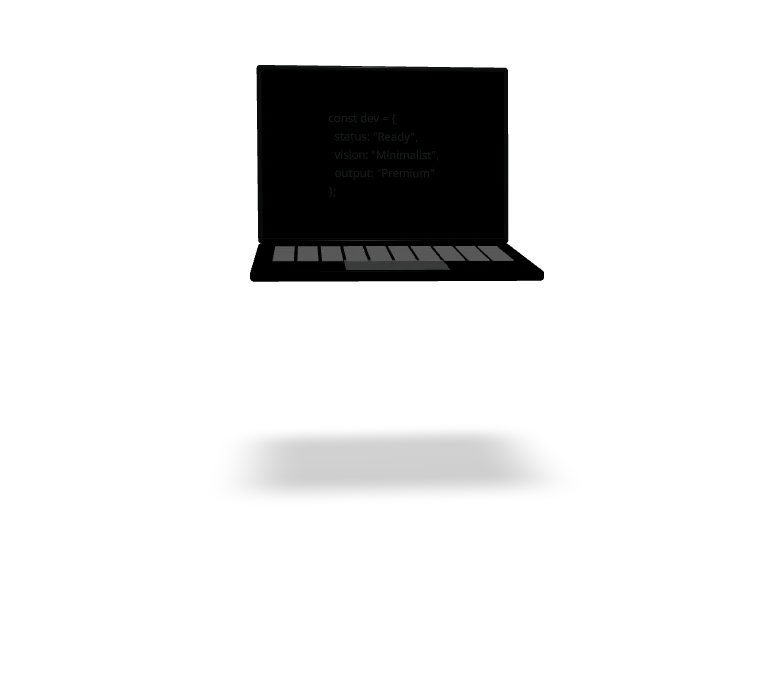
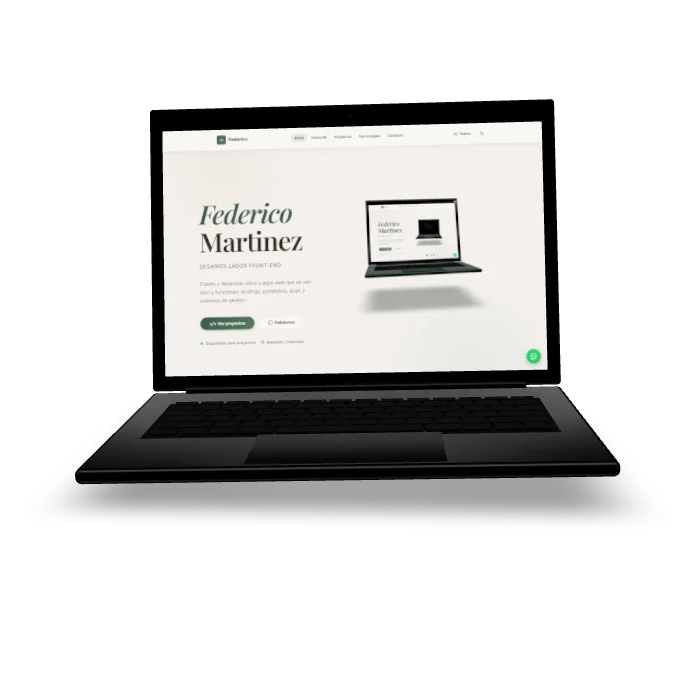
Portátil 3D más detallado con el propio portafolio en la pantalla
- Teclado completo (82 teclas en una sola malla instanciada: un draw call),
  hueco del teclado, trackpad, bisagra, borde de vidrio negro y cámara
- Aluminio con reflejos de estudio hechos en la GPU (Lightformers, sin HDR que bajar)
- La pantalla muestra la primera vista del portafolio (pantalla.webp, 28 KB) en vez
  del texto en inglés; sale troika/Text: el 3D baja de 289 a 266 KB gzip
- Al pasar el mouse se precargan el 3D y la imagen de la pantalla
- En celular el portátil se ve más grande para leer la pantalla
- Fotos fijas de los 4 colores regeneradas desde el modelo nuevo

Changed region(s): [[0.09, 0.09, 0.9, 0.75]]

diff --git a/src/components/InteractiveMonitor.tsx b/src/components/InteractiveMonitor.tsx
@@ -1,6 +1,6 @@
-import React, { useRef, useState, useEffect } from 'react';
-import { Canvas, useFrame } from '@react-three/fiber';
-import { OrbitControls, PerspectiveCamera, Float, Text, ContactShadows, RoundedBox } from '@react-three/drei';
+import React, { Suspense, useCallback, useEffect, useLayoutEffect, useMemo, useRef, useState } from 'react';
+import { Canvas, useFrame, useThree } from '@react-three/fiber';
+import { OrbitControls, PerspectiveCamera, Float, ContactShadows, RoundedBox, Environment, Lightformer, useTexture } from '@react-three/drei';
 import * as THREE from 'three';
 import { useInView } from 'framer-motion';
 import { laptopColors } from './laptopColors';
@@ -9,8 +9,61 @@ interface LaptopProps {
     color: string;
 }
 
+// Keyboard rows as relative key widths; each row is stretched to the same total width
+const KEY_ROWS = [
+    { depth: 0.11, keys: Array(14).fill(1) },
+    { depth: 0.19, keys: [...Array(13).fill(1), 1.6] },
+    { depth: 0.19, keys: [1.6, ...Array(13).fill(1)] },
+    { depth: 0.19, keys: [1.9, ...Array(11).fill(1), 1.9] },
+    { depth: 0.19, keys: [2.4, ...Array(10).fill(1), 2.4] },
+    { depth: 0.19, keys: [1, 1, 1, 1.3, 5.6, 1.3, 1, 1, 1] },
+];
+const KEYBOARD_WIDTH = 3.3;
+const KEY_GAP = 0.035;
+const KEY_COUNT = KEY_ROWS.reduce((n, r) => n + r.keys.length, 0);
+
+/** Every key in one instanced mesh: a single draw call instead of one per key */
+const Keyboard: React.FC = () => {
+    const ref = useRef<THREE.InstancedMesh>(null);
+
+    useLayoutEffect(() => {
+        const mesh = ref.current;
+        if (!mesh) return;
+        const m = new THREE.Matrix4();
+        const turn = new THREE.Quaternion();
+        let i = 0;
+        let z = -0.62;
+        for (const row of KEY_ROWS) {
+            const units = row.keys.reduce((a, b) => a + b, 0);
+            const unit = (KEYBOARD_WIDTH - KEY_GAP * (row.keys.length - 1)) / units;
+            let x = -KEYBOARD_WIDTH / 2;
+            for (const k of row.keys) {
+                const w = k * unit;
+                m.compose(new THREE.Vector3(x + w / 2, 0, z + row.depth / 2), turn, new THREE.Vector3(w, 0.022, row.depth));
+                mesh.setMatrixAt(i++, m);
+                x += w + KEY_GAP;
+            }
+            z += row.depth + KEY_GAP;
+        }
+        mesh.instanceMatrix.needsUpdate = true;
+    }, []);
+
+    return (
+        <instancedMesh ref={ref} args={[undefined, undefined, KEY_COUNT]}>
+            <boxGeometry />
+            <meshStandardMaterial color="#1c1d1f" roughness={0.65} metalness={0.1} />
+        </instancedMesh>
+    );
+};
+
 const LaptopModel: React.FC<LaptopProps> = ({ color }) => {
     const group = useRef<THREE.Group>(null);
+    // The portfolio's own first view on the screen
+    const screen = useTexture('/laptop/pantalla.webp', (t) => {
+        t.colorSpace = THREE.SRGBColorSpace;
+        t.anisotropy = 8;
+    });
+    const trackpad = useMemo(() => new THREE.Color(color).multiplyScalar(0.9), [color]);
 
     // Subtle rotation effect
     useFrame((state) => {
@@ -19,109 +72,72 @@ const LaptopModel: React.FC<LaptopProps> = ({ color }) => {
         }
     });
 
+    // Aluminium: its shine comes from the studio reflections set up in the scene
+    const aluminium = <meshStandardMaterial color={color} metalness={0.85} roughness={0.32} envMapIntensity={1.1} />;
+
     return (
         <group ref={group} dispose={null}>
-            {/* Base / Keyboard part */}
+            {/* Base */}
             <group position={[0, -0.05, 0]}>
-                <RoundedBox args={[4, 0.15, 2.8]} radius={0.05} smoothness={4}>
-                    <meshPhysicalMaterial
-                        color={color}
-                        roughness={0.2}
-                        metalness={0.8}
-                        clearcoat={1}
-                        clearcoatRoughness={0.1}
-                    />
+                <RoundedBox args={[4, 0.12, 2.8]} radius={0.05} smoothness={4}>
+                    {aluminium}
                 </RoundedBox>
 
-                {/* Keyboard Grid - Detailed Look */}
-                <group position={[0, 0.08, -0.2]}>
-                    {[...Array(5)].map((_, row) => (
-                        <group key={row} position={[0, 0, row * 0.3 - 0.6]}>
-                            {[...Array(10)].map((_, col) => (
-                                <mesh key={col} position={[col * 0.35 - 1.57, 0, 0]}>
-                                    <boxGeometry args={[0.3, 0.02, 0.25]} />
-                                    <meshStandardMaterial color="#888" roughness={0.4} />
-                                </mesh>
-                            ))}
-                        </group>
-                    ))}
+                {/* Keyboard well and keys */}
+                <mesh position={[0, 0.0605, -0.18]} rotation={[-Math.PI / 2, 0, 0]}>
+                    <planeGeometry args={[3.42, 1.32]} />
+                    <meshStandardMaterial color="#0d0e0f" roughness={0.8} />
+                </mesh>
+                <group position={[0, 0.072, -0.2]}>
+                    <Keyboard />
                 </group>
 
-                <group position={[0, 0.08, 0.9]} rotation={[-Math.PI / 2, 0, 0]}>
-                    <mesh>
-                        <planeGeometry args={[1.4, 0.9]} />
-                        <meshStandardMaterial
-                            color={color}
-                            roughness={0.4}
-                            metalness={0.1}
-                            opacity={0.4}
-                            transparent
-                        />
-                    </mesh>
-                    {/* Stronger Border effect for trackpad visibility on dark colors */}
-                    <mesh position={[0, 0, 0.001]}>
-                        <planeGeometry args={[1.42, 0.92]} />
-                        <meshStandardMaterial color="#fff" opacity={0.3} transparent />
-                    </mesh>
-                </group>
+                {/* Trackpad */}
+                <RoundedBox args={[1.5, 0.004, 0.92]} radius={0.002} smoothness={2} position={[0, 0.061, 0.86]}>
+                    <meshStandardMaterial color={trackpad} metalness={0.6} roughness={0.45} />
+                </RoundedBox>
             </group>
 
-            {/* Hinge Cylinder */}
-            <mesh position={[0, 0.02, -1.4]} rotation={[0, 0, Math.PI / 2]}>
-                <cylinderGeometry args={[0.08, 0.08, 3.9, 12]} />
-                <meshStandardMaterial color="#444" metalness={0.9} roughness={0.1} />
+            {/* Hinge */}
+            <mesh position={[0, 0.02, -1.36]} rotation={[0, 0, Math.PI / 2]}>
+                <cylinderGeometry args={[0.055, 0.055, 3.3, 20]} />
+                <meshStandardMaterial color="#1a1b1c" metalness={0.7} roughness={0.35} />
             </mesh>
 
-            {/* Screen / Lid - Adjusted rotation to match 90-100 degrees */}
+            {/* Lid, opened a little past 90 degrees */}
             <group position={[0, 0.02, -1.4]} rotation={[-0.2, 0, 0]}>
-                <mesh position={[0, 1.4, 0]}>
-                    <RoundedBox args={[4, 2.8, 0.1]} radius={0.05} smoothness={4}>
-                        <meshPhysicalMaterial
-                            color={color}
-                            roughness={0.1}
-                            metalness={0.5}
-                            clearcoat={1}
-                            clearcoatRoughness={0.1}
-                            emissive={color}
-                            emissiveIntensity={0.25}
-                        />
-                    </RoundedBox>
+                <RoundedBox args={[4, 2.8, 0.07]} radius={0.035} smoothness={4} position={[0, 1.4, -0.035]}>
+                    {aluminium}
+                </RoundedBox>
 
-                    {/* Display surface */}
-                    <mesh position={[0, 0, 0.051]}>
-                        <planeGeometry args={[3.85, 2.65]} />
-                        <meshStandardMaterial
-                            color="#000"
-                            emissive="#000"
-                            roughness={0}
-                        />
+                {/* Black glass bezel */}
+                <RoundedBox args={[3.96, 2.76, 0.004]} radius={0.002} smoothness={2} position={[0, 1.4, 0.001]}>
+                    <meshStandardMaterial color="#050505" roughness={0.06} metalness={0.2} />
+                </RoundedBox>
 
-                        {/* Screen Content area */}
-                        <mesh position={[0, 0, 0.001]}>
-                            <planeGeometry args={[3.7, 2.5]} />
-                            <meshStandardMaterial color="#080808" />
+                {/* Display: unlit so the screenshot keeps its real colors */}
+                <mesh position={[0, 1.36, 0.0035]}>
+                    <planeGeometry args={[3.74, 2.43]} />
+                    <meshBasicMaterial map={screen} toneMapped={false} />
+                </mesh>
 
-                            {/* Subtle Code Overlay */}
-                            {/* Local font: without it troika downloads one from a CDN on every visit */}
-                            <Text
-                                font="/fonts/noto-sans-latin.woff"
-                                position={[0, 0, 0.01]}
-                                fontSize={0.18}
-                                color={color}
-                                maxWidth={3}
-                                lineHeight={1.6}
-                                textAlign="left"
-                                anchorX="center"
-                                anchorY="middle"
-                            >
-                                {`const dev = {\n  estado: "Listo",\n  estilo: "Minimalista",\n  resultado: "Premium"\n};`}
-                            </Text>
-                        </mesh>
-                    </mesh>
+                {/* Camera */}
+                <mesh position={[0, 2.68, 0.004]}>
+                    <circleGeometry args={[0.022, 16]} />
+                    <meshStandardMaterial color="#1d2a30" roughness={0.2} />
                 </mesh>
             </group>
-        </group >
+        </group>
     );
+};
+
+/** Mounts once the model (and its screen texture) is ready: compile the shaders, then start drawing */
+const WhenReady: React.FC<{ onReady: () => void }> = ({ onReady }) => {
+    const { gl, scene, camera } = useThree();
+    useEffect(() => {
+        gl.compileAsync(scene, camera).then(onReady);
+    }, [gl, scene, camera, onReady]);
+    return null;
 };
 
 interface InteractiveMonitorProps {
@@ -138,12 +154,16 @@ export const InteractiveMonitor: React.FC<InteractiveMonitorProps> = ({ initialC
     // Shaders compile in the background (KHR_parallel_shader_compile); drawing starts once they are ready,
     // so the first frame does not freeze the page
     const [compiled, setCompiled] = useState(false);
+    const ready = useCallback(() => {
+        setCompiled(true);
+        onReady?.();
+    }, [onReady]);
 
     useEffect(() => {
         const handleResize = () => {
             const isMobile = window.innerWidth <= 768; // same breakpoint as the phone still
-            setScale(isMobile ? 0.7 : 1); // Very slightly larger
-            setPositionY(isMobile ? 1.0 : 0); // Lowered the shift upwards
+            setScale(isMobile ? 1.25 : 1); // big enough on phones to read the screen
+            setPositionY(isMobile ? -0.85 : 0); // centered in the phone box, just above its shadow
         };
 
         handleResize(); // Set initial scale
@@ -159,26 +179,29 @@ export const InteractiveMonitor: React.FC<InteractiveMonitorProps> = ({ initialC
                     frameloop={compiled && onScreen ? 'always' : 'never'}
                     gl={{ antialias: true, alpha: true }}
                     dpr={[1, 2]}
-                    onCreated={({ gl, scene, camera }) => {
-                        gl.compileAsync(scene, camera).then(() => {
-                            setCompiled(true);
-                            onReady?.();
-                        });
-                    }}
                 >
                     <PerspectiveCamera makeDefault position={[0, 2, 11.5]} fov={35} />
-                    <ambientLight intensity={1.2} />
-                    <spotLight position={[15, 20, 15]} angle={0.3} penumbra={1} intensity={2.5} />
-                    <spotLight position={[-15, 20, 10]} angle={0.3} penumbra={1} intensity={1.5} color="#fff" />
-                    <pointLight position={[0, 5, 0]} intensity={2} color="#fff" distance={10} />
-                    <pointLight position={[5, -5, -5]} intensity={1.5} color="#fff" />
+                    <ambientLight intensity={0.35} />
+                    <spotLight position={[15, 20, 15]} angle={0.3} penumbra={1} intensity={2} />
                     <pointLight position={[0, 0, -12]} intensity={2.5} color={color} distance={20} /> {/* Rim Light */}
 
-                    <Float speed={2} rotationIntensity={0.5} floatIntensity={0.5}>
-                        <group scale={scale} position={[0, positionY, 0]}>
-                            <LaptopModel color={color} />
-                        </group>
-                    </Float>
+                    {/* Studio reflections for the metal, drawn once on the GPU: no HDR file to download */}
+                    <Environment resolution={64} frames={1}>
+                        <Lightformer form="rect" intensity={2.5} position={[0, 6, 2]} rotation={[Math.PI / 2, 0, 0]} scale={[10, 4, 1]} />
+                        <Lightformer form="rect" intensity={1.5} position={[-6, 2, 3]} rotation={[0, Math.PI / 2, 0]} scale={[6, 3, 1]} />
+                        <Lightformer form="rect" intensity={1.2} position={[6, 1, 4]} rotation={[0, -Math.PI / 2, 0]} scale={[6, 3, 1]} />
+                        <Lightformer form="ring" intensity={0.8} position={[0, 1, -8]} scale={4} />
+                        <Lightformer form="rect" intensity={0.8} position={[0, -5, 2]} rotation={[-Math.PI / 2, 0, 0]} scale={[10, 4, 1]} />
+                    </Environment>
+
+                    <Suspense fallback={null}>
+                        <Float speed={2} rotationIntensity={0.5} floatIntensity={0.5}>
+                            <group scale={scale} position={[0, positionY, 0]}>
+                                <LaptopModel color={color} />
+                            </group>
+                        </Float>
+                        <WhenReady onReady={ready} />
+                    </Suspense>
 
                     <ContactShadows
                         position={[0, -1.2, 0]}

diff --git a/src/components/HeroLaptop.tsx b/src/components/HeroLaptop.tsx
@@ -3,7 +3,13 @@ import { laptopColors } from './laptopColors';
 
 // three.js is ~1 MB: its own chunk, downloaded only when the visitor shows interest in the laptop
 const loadMonitor = () => import('./InteractiveMonitor');
-const prefetch = () => { loadMonitor().catch(() => {}); }; // a failed early download only matters on click
+// Early download of the scene and its screen image; a failure here only matters on click
+const prefetch = () => {
+  loadMonitor().catch(() => {});
+  const img = new Image();
+  img.crossOrigin = 'anonymous'; // same request mode as three's loader, so it hits the cache
+  img.src = '/laptop/pantalla.webp';
+};
 const InteractiveMonitor = lazy(() => loadMonitor().then((m) => ({ default: m.InteractiveMonitor })));
 
 const PHONE = '(max-width: 768px)';
@@ -61,7 +67,7 @@ export const HeroLaptop: React.FC<HeroLaptopProps> = ({ near }) => {
           <img
             src={`/laptop/${isPhone ? '' : 'desktop-'}${still.still}.webp`}
             alt="Portátil con código en la pantalla"
-            width={isPhone ? 780 : 1026}
+            width={isPhone ? 700 : 1026}
             height={isPhone ? 700 : 1125}
             onPointerDown={() => setEngaged(true)}
           />
